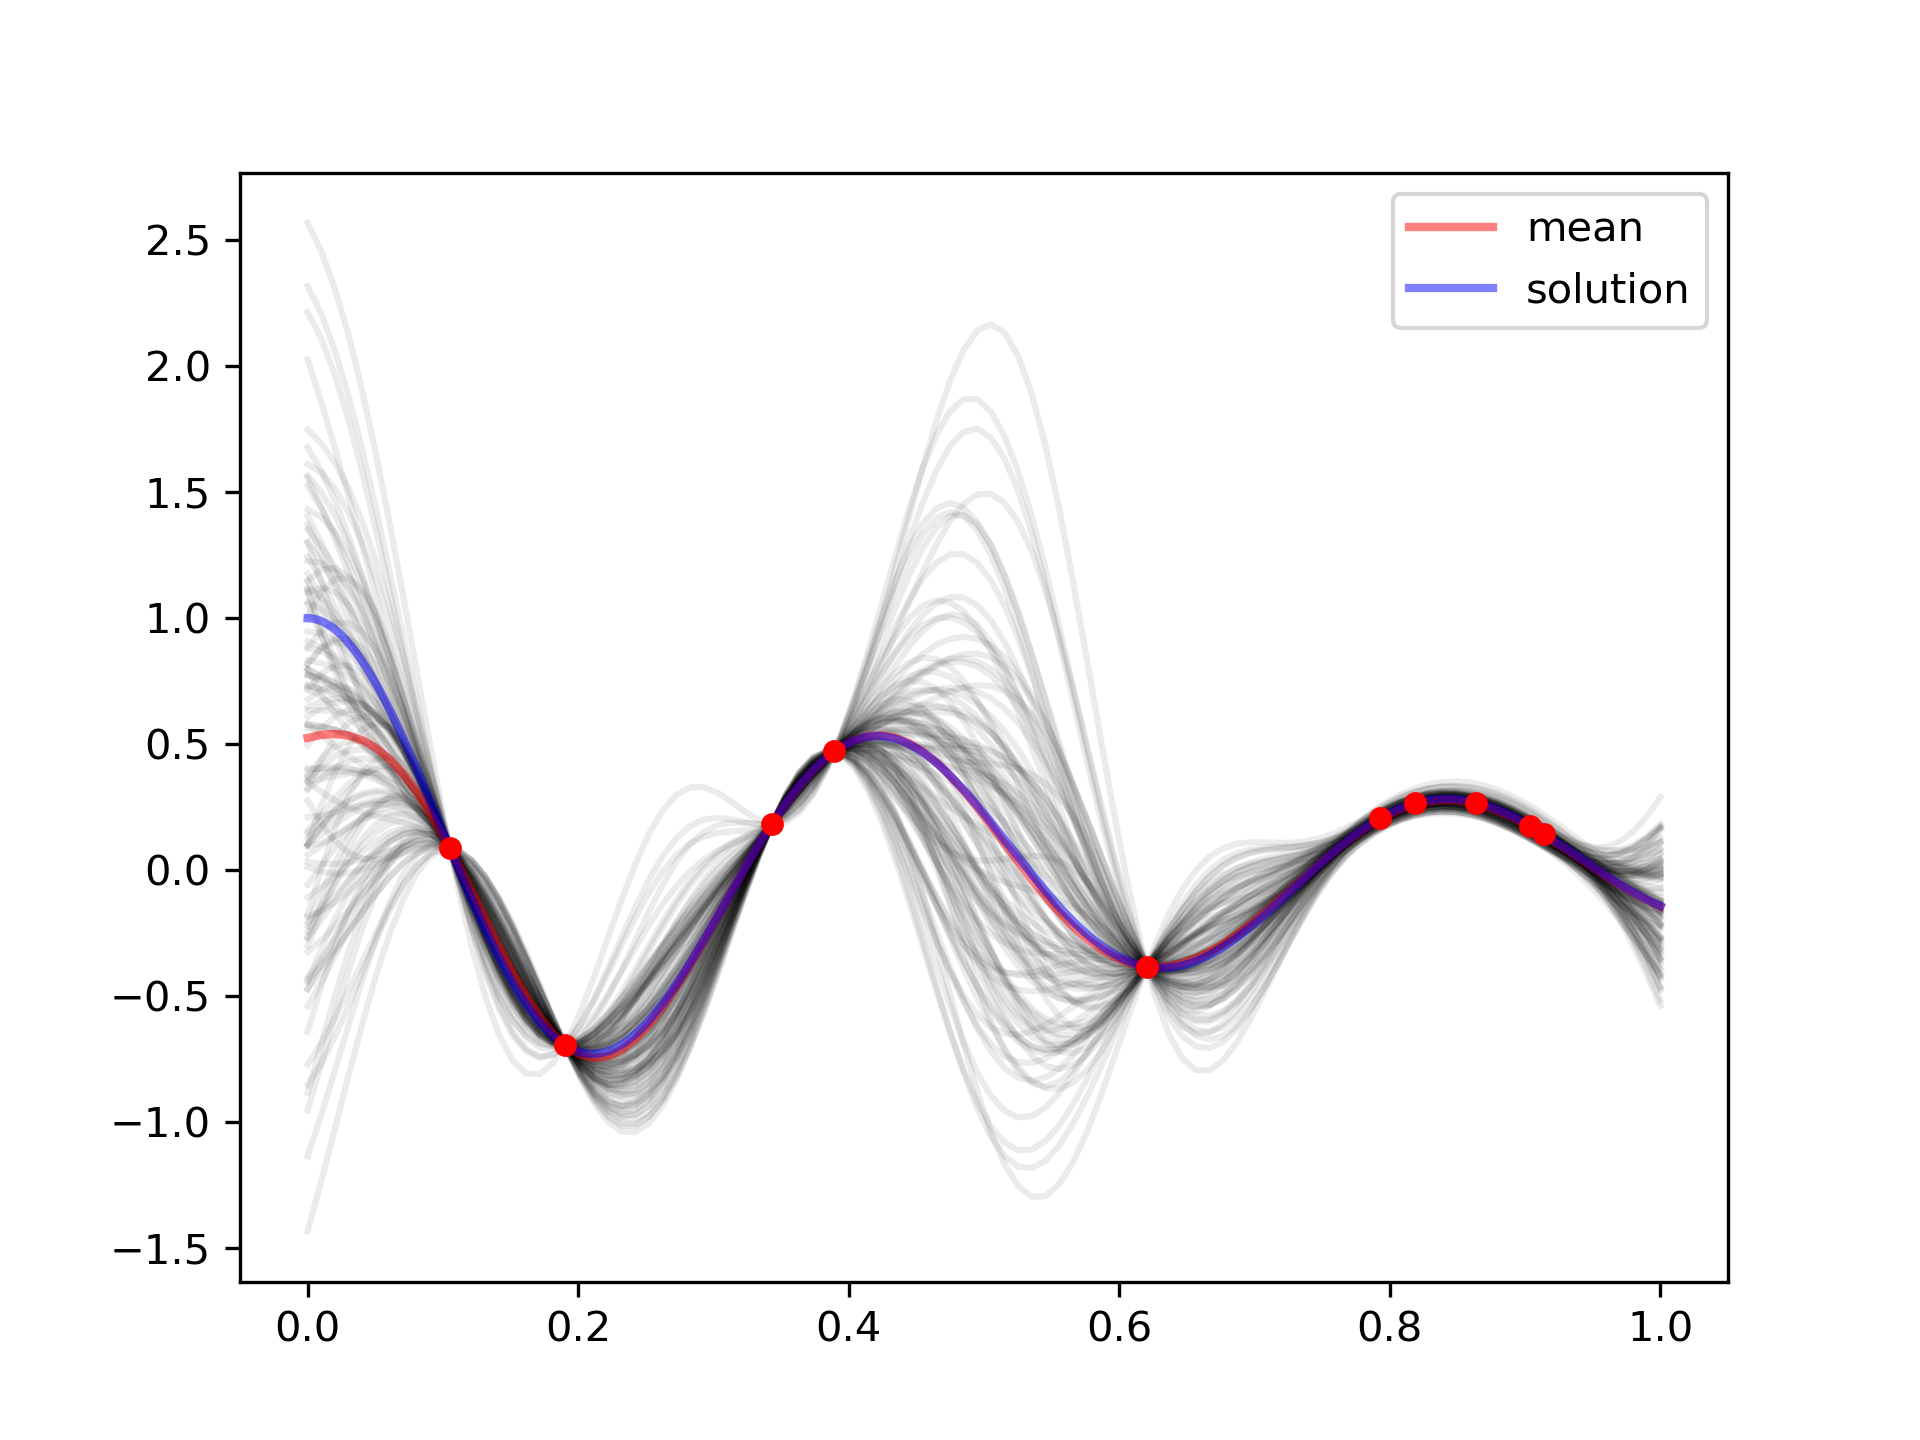
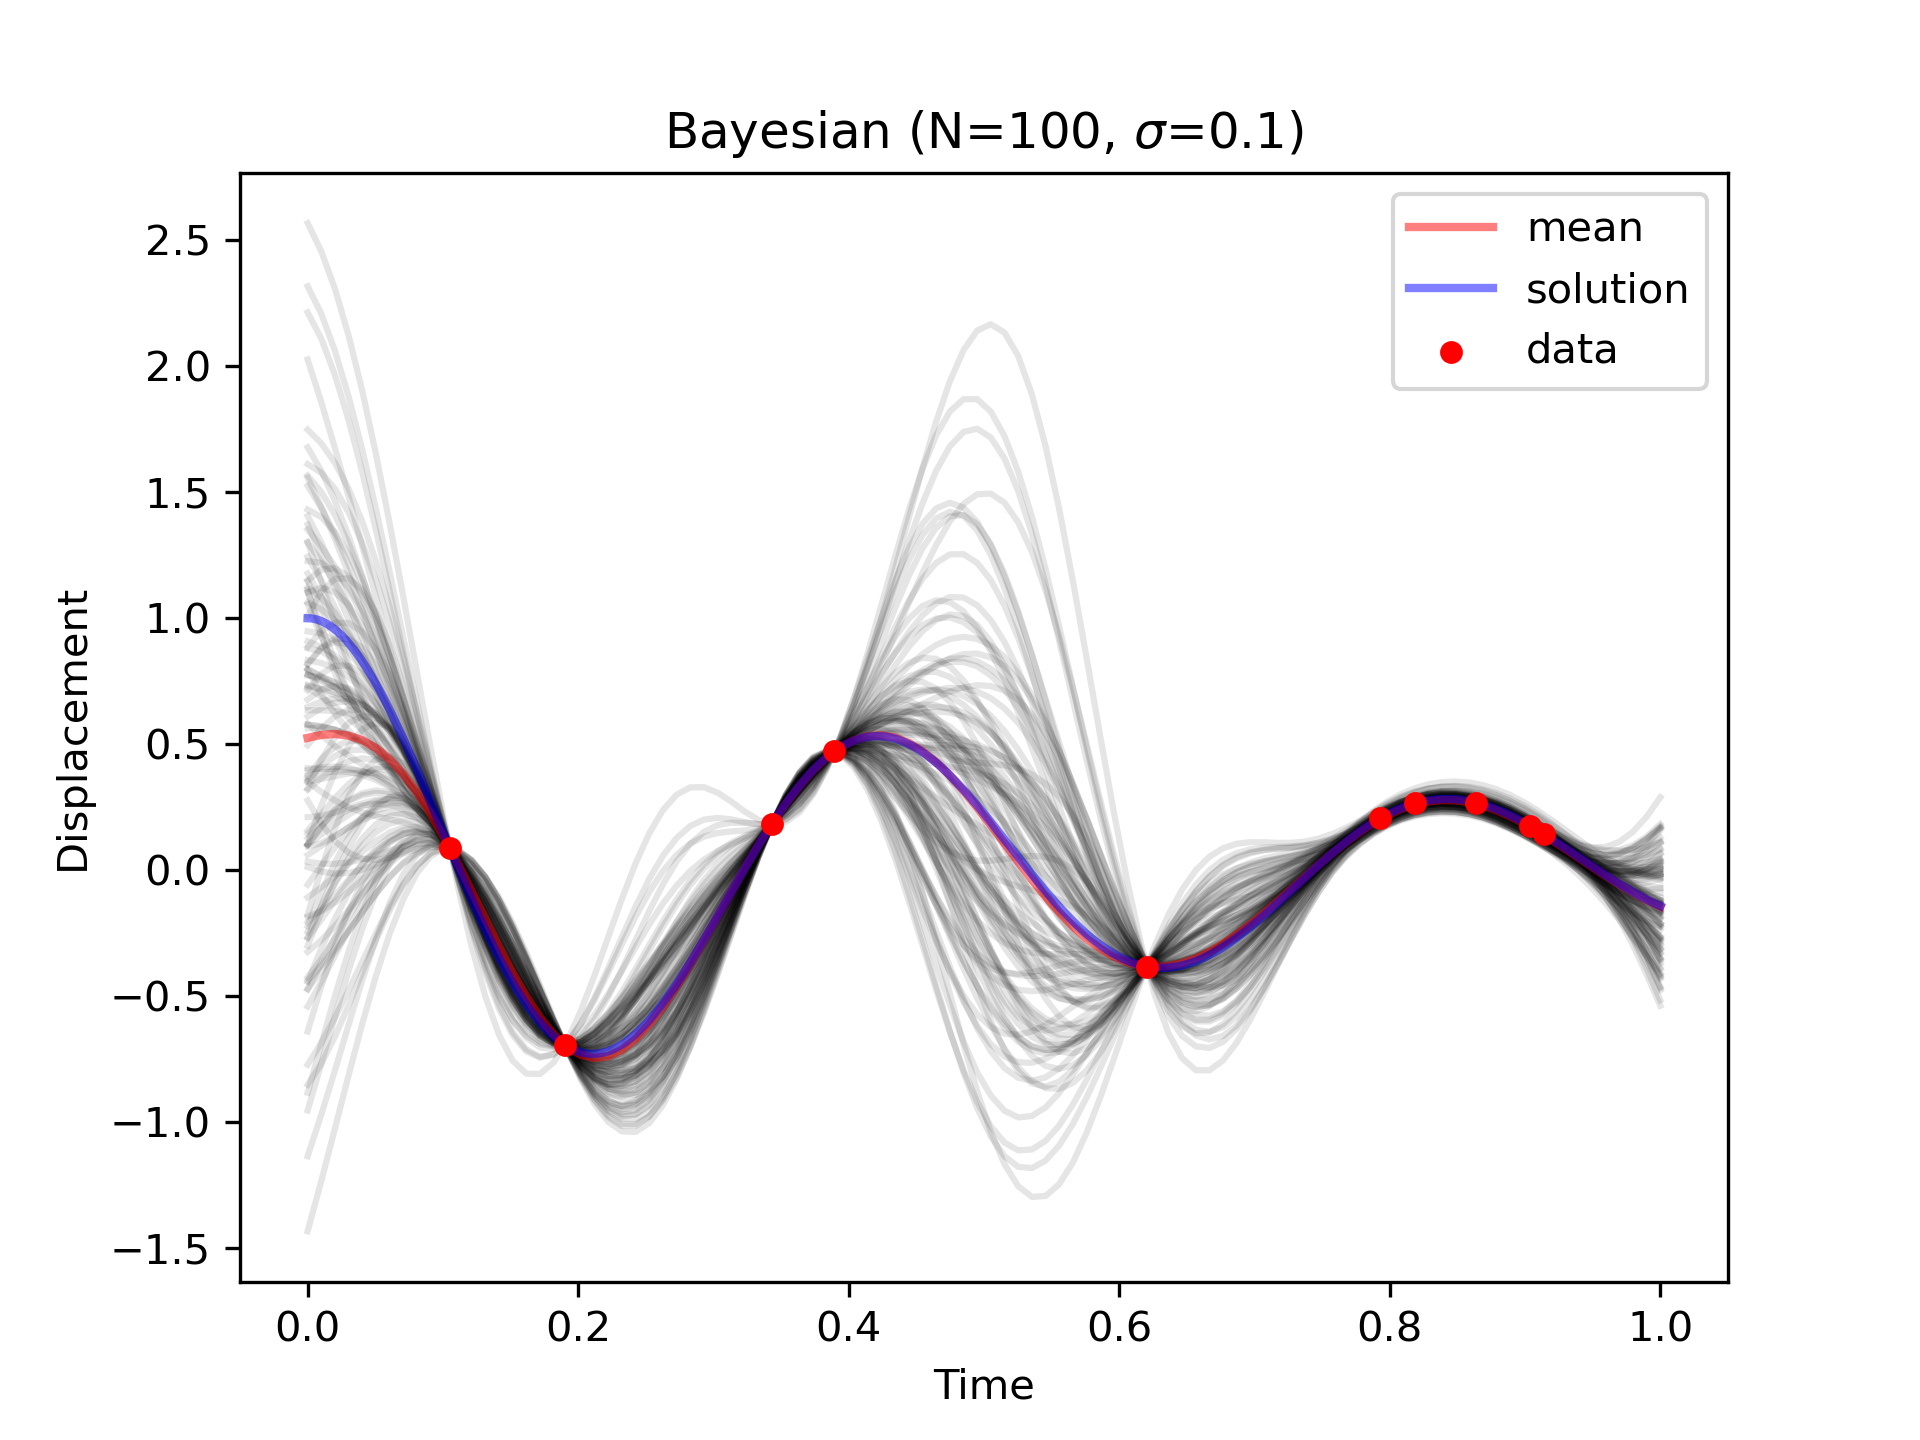
asd

diff --git a/3_bayesian/g2.py b/3_bayesian/g2.py
@@ -55,11 +55,17 @@ ys = np.random.multivariate_normal(m_fun, k_fun, gp_sample_n)
 
 # plt.scatter(tr_xs, tr_ys, s=1000)
 for i in range(gp_sample_n):
-    plt.plot(xs.T[0], ys[i], alpha=.08, c='k')
+    plt.plot(xs.T[0], ys[i], alpha=.1, c='k')
 plt.plot(xs.T[0], np.mean(ys, axis=0), c='r', linewidth=2, alpha=.5, label='mean')
 plt.plot(x.cpu(), y.cpu(), c='b', linewidth=2, alpha=.5, label='solution')
-plt.scatter(tr_xs, tr_ys, s=20, c='r', zorder=5)
+plt.scatter(tr_xs, tr_ys, s=20, c='r', zorder=5, label='data')
+
+plt.xlabel("Time")
+plt.ylabel("Displacement")
+
+plt.title(r"Bayesian (N=100, $\sigma$=0.1)")
+
 plt.legend()
-plt.savefig("result/bayesian", dpi=300)
+plt.savefig("bayesian", dpi=300)
 # plt.show()
 

diff --git a/1_data/graph/measure.py b/1_data/graph/measure.py
@@ -1,0 +1,19 @@
+import os
+import  numpy as np
+import matplotlib.pyplot as plt
+
+
+asd=os.listdir(".")
+
+z=1
+while z<len(asd):
+    print(asd[z])
+    time = np.loadtxt(f"./{asd[z]}", unpack=1).T
+    plt.hist(time, bins=100)
+    plt.show()
+    z+=1
+
+
+
+
+
